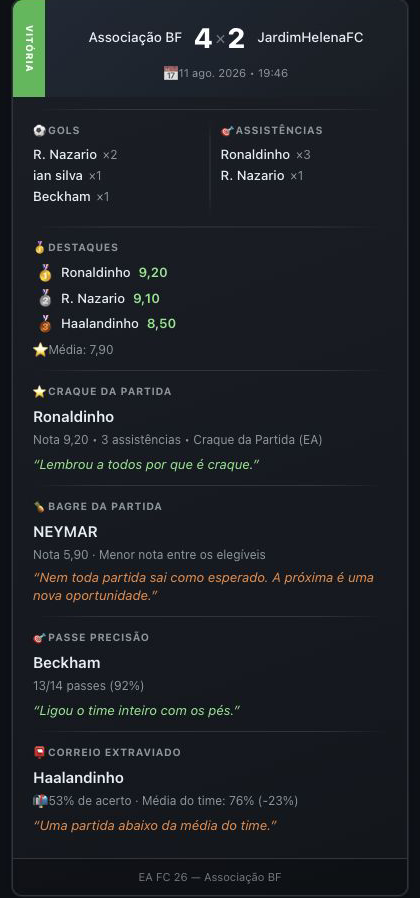
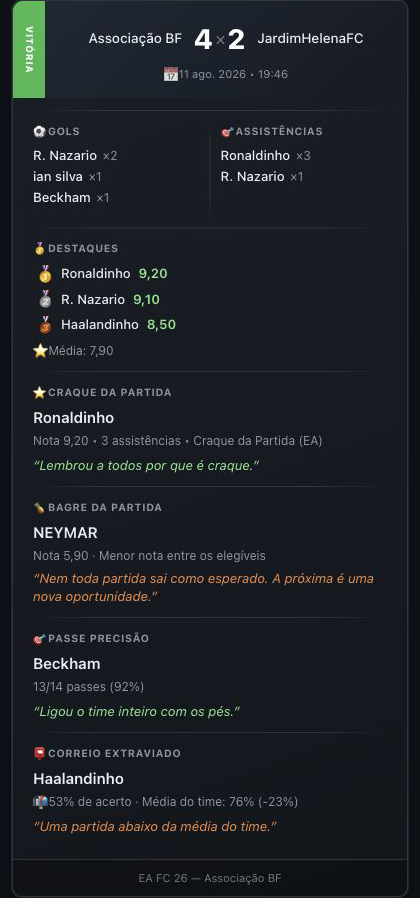
fix: stabilize match card layout and header

diff --git a/apps/dashboard/src/components/overview/overview-match-carousel.tsx b/apps/dashboard/src/components/overview/overview-match-carousel.tsx
@@ -44,21 +44,23 @@ export function OverviewMatchCarousel({ presentations }: Props) {
       <div className="hidden md:block relative">
         <div className="flex items-center gap-3 p-5 lg:p-6">
           {/* Left arrow */}
-          {canGoBack && (
-            <button
-              onClick={handlePrevious}
-              disabled={isTransitioning}
-              className="flex-shrink-0 flex items-center justify-center w-12 h-12 rounded-full bg-[#21262d]/90 border border-[#30363d] hover:bg-[#30363d] hover:scale-110 disabled:opacity-30 disabled:cursor-not-allowed transition-all backdrop-blur-sm shadow-lg z-10"
-              aria-label="Página anterior"
-            >
-              <ChevronLeft className="w-6 h-6 text-[#e6edf3]" />
-            </button>
-          )}
+          <div className="w-12 shrink-0">
+            {canGoBack && (
+              <button
+                onClick={handlePrevious}
+                disabled={isTransitioning}
+                className="flex items-center justify-center w-12 h-12 rounded-full bg-[#21262d]/90 border border-[#30363d] hover:bg-[#30363d] hover:scale-110 disabled:opacity-30 disabled:cursor-not-allowed transition-all backdrop-blur-sm shadow-lg z-10"
+                aria-label="Página anterior"
+              >
+                <ChevronLeft className="w-6 h-6 text-[#e6edf3]" />
+              </button>
+            )}
+          </div>
 
           {/* Cards container with slide animation */}
-          <div className="flex-1 overflow-hidden">
+          <div className="min-w-0 flex-1 overflow-hidden">
             <div
-              className="grid grid-cols-1 md:grid-cols-2 xl:grid-cols-3 gap-5 transition-transform duration-400 ease-in-out"
+              className="grid w-full min-w-0 grid-cols-1 md:grid-cols-2 xl:grid-cols-3 gap-5 transition-transform duration-400 ease-in-out"
               style={{
                 transform: `translateX(0)`,
               }}
@@ -75,16 +77,18 @@ export function OverviewMatchCarousel({ presentations }: Props) {
           </div>
 
           {/* Right arrow */}
-          {canGoForward && (
-            <button
-              onClick={handleNext}
-              disabled={isTransitioning}
-              className="flex-shrink-0 flex items-center justify-center w-12 h-12 rounded-full bg-[#21262d]/90 border border-[#30363d] hover:bg-[#30363d] hover:scale-110 disabled:opacity-30 disabled:cursor-not-allowed transition-all backdrop-blur-sm shadow-lg z-10"
-              aria-label="Próxima página"
-            >
-              <ChevronRight className="w-6 h-6 text-[#e6edf3]" />
-            </button>
-          )}
+          <div className="w-12 shrink-0">
+            {canGoForward && (
+              <button
+                onClick={handleNext}
+                disabled={isTransitioning}
+                className="flex items-center justify-center w-12 h-12 rounded-full bg-[#21262d]/90 border border-[#30363d] hover:bg-[#30363d] hover:scale-110 disabled:opacity-30 disabled:cursor-not-allowed transition-all backdrop-blur-sm shadow-lg z-10"
+                aria-label="Próxima página"
+              >
+                <ChevronRight className="w-6 h-6 text-[#e6edf3]" />
+              </button>
+            )}
+          </div>
         </div>
       </div>
 
@@ -102,4 +106,3 @@ export function OverviewMatchCarousel({ presentations }: Props) {
     </>
   );
 }
-

diff --git a/apps/dashboard/src/__tests__/overview-match-card.test.tsx b/apps/dashboard/src/__tests__/overview-match-card.test.tsx
@@ -3,6 +3,7 @@ import { renderToStaticMarkup } from "react-dom/server";
 import { describe, expect, it } from "vitest";
 
 import { OverviewMatchCard } from "@/components/overview/overview-match-card";
+import { OverviewMatchCarousel } from "@/components/overview/overview-match-carousel";
 import type { MatchSummaryPresentation } from "@/lib/services/match-card-service";
 
 const basePresentation: MatchSummaryPresentation = {
@@ -39,9 +40,11 @@ describe("OverviewMatchCard", () => {
   ] as const)("renders a clipped header and the %s ribbon", (type, label, ribbonColor) => {
     const html = render({ ...basePresentation, outcome: { ...basePresentation.outcome, type, label } });
 
-    expect(html).toContain("match-summary-card overflow-hidden rounded-[10px] border border-border bg-surface");
+    expect(html).toContain("match-summary-card w-full min-w-0 overflow-hidden rounded-[10px] border border-border bg-surface");
     expect(html).toContain("card-header grid w-full overflow-hidden rounded-t-[10px]");
     expect(html).toContain(`background:${ribbonColor}`);
+    expect(html).toContain("rgba(22, 27, 34, 0.98) 100%");
+    expect(html).not.toContain("rgba(88, 166, 255, 0.08), transparent");
     expect(html).toContain(label);
   });
 
@@ -71,7 +74,17 @@ describe("OverviewMatchCard", () => {
 
     expect(rich).toContain("PASSE PRECISÃO");
     expect(rich).toContain("CORREIO EXTRAVIADO");
-    expect(sparse).toContain("match-summary-card overflow-hidden");
+    expect(sparse).toContain("match-summary-card w-full min-w-0 overflow-hidden");
     expect(sparse).not.toContain("GOLS");
+  });
+
+  it("reserves both carousel control columns before and after pagination", () => {
+    const html = renderToStaticMarkup(
+      <OverviewMatchCarousel presentations={[basePresentation, { ...basePresentation, matchId: "two" }, { ...basePresentation, matchId: "three" }, { ...basePresentation, matchId: "four" }]} />,
+    );
+
+    expect((html.match(/w-12 shrink-0/g) ?? [])).toHaveLength(2);
+    expect(html).toContain("min-w-0 flex-1 overflow-hidden");
+    expect(html).toContain("grid w-full min-w-0 grid-cols-1");
   });
 });

diff --git a/apps/dashboard/src/components/overview/overview-match-card.tsx b/apps/dashboard/src/components/overview/overview-match-card.tsx
@@ -37,9 +37,9 @@ export function OverviewMatchCard({ presentation, variant = "full", isLatest = f
   const nameLg = c ? "text-[0.88rem]" : "text-[0.95rem]";
 
   return (
-    <div className={c ? "" : "max-w-[420px] mx-auto px-3"}>
+    <div className={c ? "w-full min-w-0" : "w-full min-w-0 max-w-[420px] mx-auto px-3"}>
       <div
-        className={`match-card match-summary-card overflow-hidden rounded-[10px] border border-border bg-surface match-card-elevated ${isLatest ? "match-card-featured" : ""}`}
+        className={`match-card match-summary-card w-full min-w-0 overflow-hidden rounded-[10px] border border-border bg-surface match-card-elevated ${isLatest ? "match-card-featured" : ""}`}
         style={{ background: "linear-gradient(160deg, #1a1f26 0%, #161b22 50%, #12161c 100%)" }}
       >
         {/* Header with vertical ribbon */}
@@ -47,7 +47,7 @@ export function OverviewMatchCard({ presentation, variant = "full", isLatest = f
           className="card-header grid w-full overflow-hidden rounded-t-[10px]"
           style={{
             gridTemplateColumns: c ? "26px 1fr" : "32px 1fr",
-            background: "linear-gradient(135deg, rgba(88, 166, 255, 0.08), transparent)",
+            background: "linear-gradient(135deg, rgba(88, 166, 255, 0.08) 0%, rgba(22, 27, 34, 0.98) 100%)",
           }}
         >
           {/* Ribbon */}
